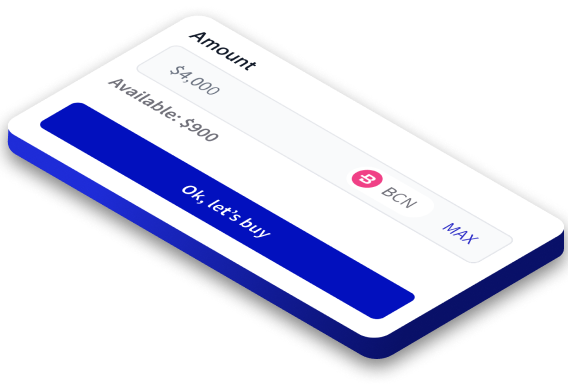
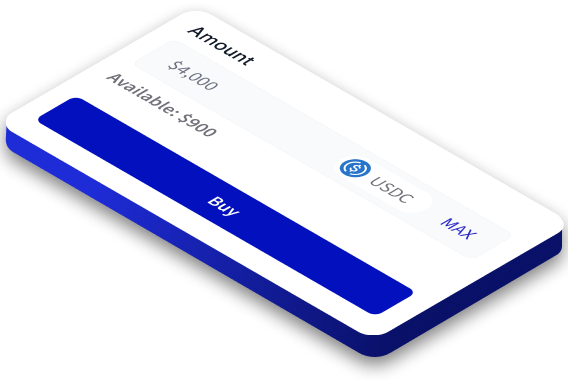
Update amount tile in Leverage Steps, reduce Curve DAO token filesize

diff --git a/src/components/token-slider.js b/src/components/token-slider.js
@@ -10,7 +10,7 @@ import Bitcoin from "/static/img/slider/bitcoin.svg";
 import EthereumToken from "/static/img/slider/ethereum.svg";
 import BalancerToken from "/static/img/slider/balancer.svg";
 import CompoundToken from "/static/img/slider/compound.svg";
-import CurveDAOToken from "/static/img/slider/curve-dao.svg";
+import CurveDAOToken from "/static/img/slider/curve-dao.png";
 import YearnToken from "/static/img/slider/yearn.svg";
 import SushiswapToken from "/static/img/slider/sushiswap.svg";
 import ShortPosition from "/static/img/slider/short-position.svg";

diff --git a/static/css/style.css b/static/css/style.css
@@ -355,8 +355,8 @@ section {
   min-width: 390px;
 }
 .step-animation__amount {
-  top: 15px;
-  right: 30px;
+  top: 22px;
+  right: 35px;
 }
 
 /* App base */
